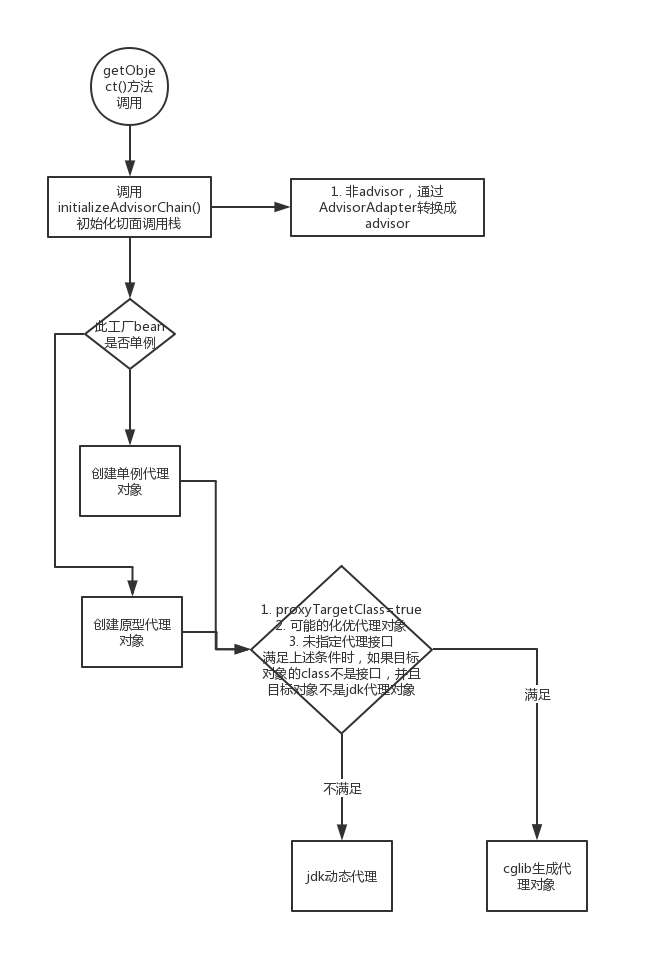
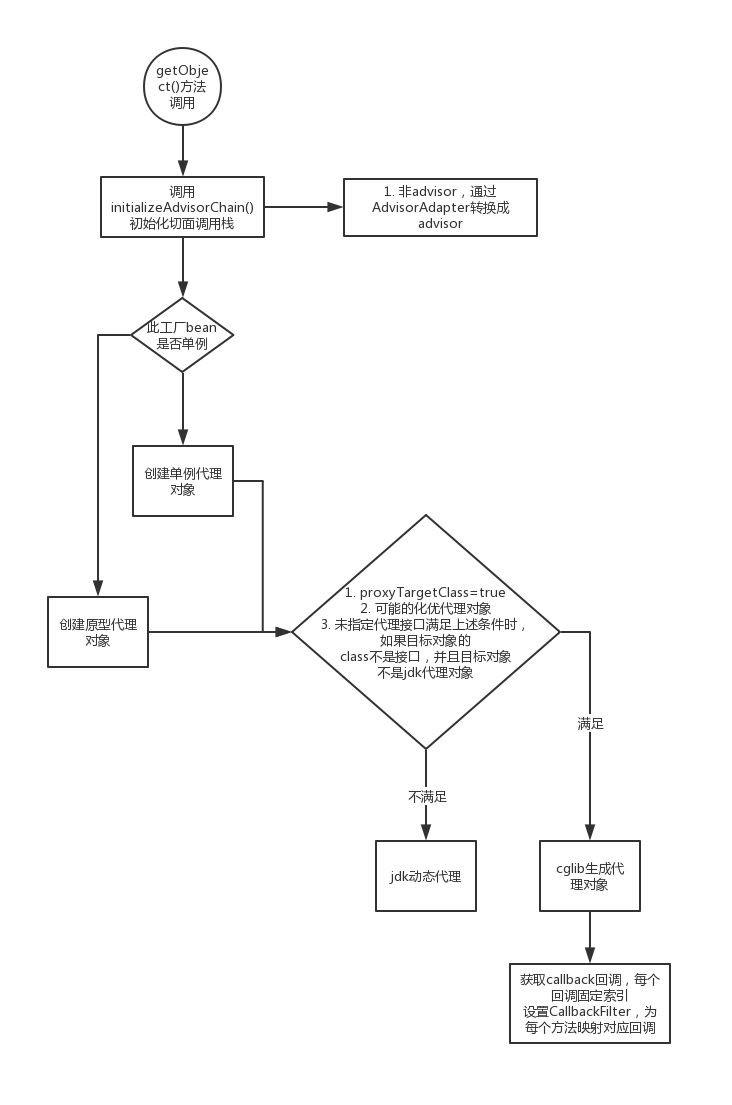
aop用法

diff --git a/chapter5/src/main/java/cn/sexycode/spring/study/chapter5/BusinessService.java b/chapter5/src/main/java/cn/sexycode/spring/study/chapter5/BusinessService.java
@@ -4,6 +4,14 @@ public class BusinessService implements IBusinessService{
     @Override
     public String sayHello(){
         System.out.println("hello");
+        System.out.println("i want to say again");
+        this.sayAgain();
         return "hello";
+    }
+
+    @Override
+    public String sayAgain() {
+        System.out.println("again");
+        return "again";
     }
 }

diff --git a/chapter5/src/main/java/cn/sexycode/spring/study/chapter5/IBusinessService.java b/chapter5/src/main/java/cn/sexycode/spring/study/chapter5/IBusinessService.java
@@ -2,4 +2,5 @@ package cn.sexycode.spring.study.chapter5;
 
 public interface IBusinessService {
     String sayHello();
+    String sayAgain();
 }

diff --git a/chapter5/Spring AOP基本用法.md b/chapter5/Spring AOP基本用法.md
@@ -179,7 +179,7 @@ public Object getObject() throws BeansException {
 
 `JdkDynamicAopProxy`实现了`InvocationHandler`接口，也就是说当代理对象的方法被调用时，`JdkDynamicAopProxy`的`invoke`方法将会被调用，从而通过`invoke`的实现逻辑完成对目标方法调用的拦截。
 
-主要的逻辑是`equals`，`hashCode`方法的判断，`Advised`和`DecoratingProxy`接口的判断。这些方法需要特殊处理，如果目标类没有实现`equals`，`hashCode`方法，那么需要去比较原始对象。
+主要的逻辑是`equals`，`hashCode`方法的判断，`Advised`和`DecoratingProxy`接口的判断。这些方法需要特殊处理，如果目标类实现了`equals`，`hashCode`方法，那么需要去比较原始对象，否则，直接调用代理对象的`equals`和`hashCode`方法就可以了。。
 
 接下来需要根据当前调用的方法获取到对应的拦截器链，如果拦截器链为空，则表示当前方法不需要拦截，直接调用目标对象的方法就可以了。如果不为空，则表示需要拦截，生成`ReflectiveMethodInvocation`对象，该对象封装了拦截器的调用过程。
 
@@ -368,4 +368,23 @@ public Object getProxy(@Nullable ClassLoader classLoader) {
 
 创建代理的过程总结如下图：
 
-![1579080057890](Spring AOP基本用法/ProxyFactoryBean创建代理对象流程.png)
+![ProxyFactoryBean创建代理对象流程](Spring AOP基本用法/ProxyFactoryBean创建代理对象流程.png)
+
+执行过程如下：
+
+![调用过程](Spring AOP基本用法/代理调用过程.png)
+
+## 代理属性配置
+
+在前面提到了`ProxyFactoryBean`顶层继承了`ProxyConfig`类，该类提供了一些基础属性配置。下面看一下具体有哪些属性以及其作用。
+
+| 属性             | 说明                                                         |
+| ---------------- | ------------------------------------------------------------ |
+| proxyTargetClass | 是否直接代理目标类，而不只是代理特定的接口。默认设置是`false`。将其设置为`true`，以强制对目标类进行代理。如果目标类是接口，则将为给定接口创建JDK代理。如果目标类是任何其他类，那么将为给定的类创建一个CGLIB代理。 |
+| optimize         | 代理是否应该执行积极的优化。“积极的优化”的确切含义在不同的代理之间会有所不同，默认设置是`false`。例如，优化通常意味着在创建代理之后将不能更改通知。由于这个原因，优化在默认情况下是禁用的。 |
+| opaque           | 是否应阻止将此配置创建的代理转换为`Advised`来查询代理状态。默认值是`false`，这意味着任何AOP代理都可以被强制转换为`Advised`的，因为会给代理对象加上`Advised`接口。 |
+| exposeProxy      | 设置AOP框架是否应该将代理公开为ThreadLocal，以便通过AopContext类获取代理。如果`Advised`的对象需要调用自己另一个被拦截的方法时可以使用这种方式。(如果使用`this`，将不会拦截调用)。默认为“false”，以避免不必要的拦截。尽量不使用此种方式，因为依赖于Spring Aop。 |
+| frozen           | 设置这个配置是否应该被冻结。当一个配置被冻结时，无法更改通知。这对于性能优化非常有用，当我们不希望调用者能够在强制转换为`Advised`后操作配置时也非常有用。 |
+
+
+
